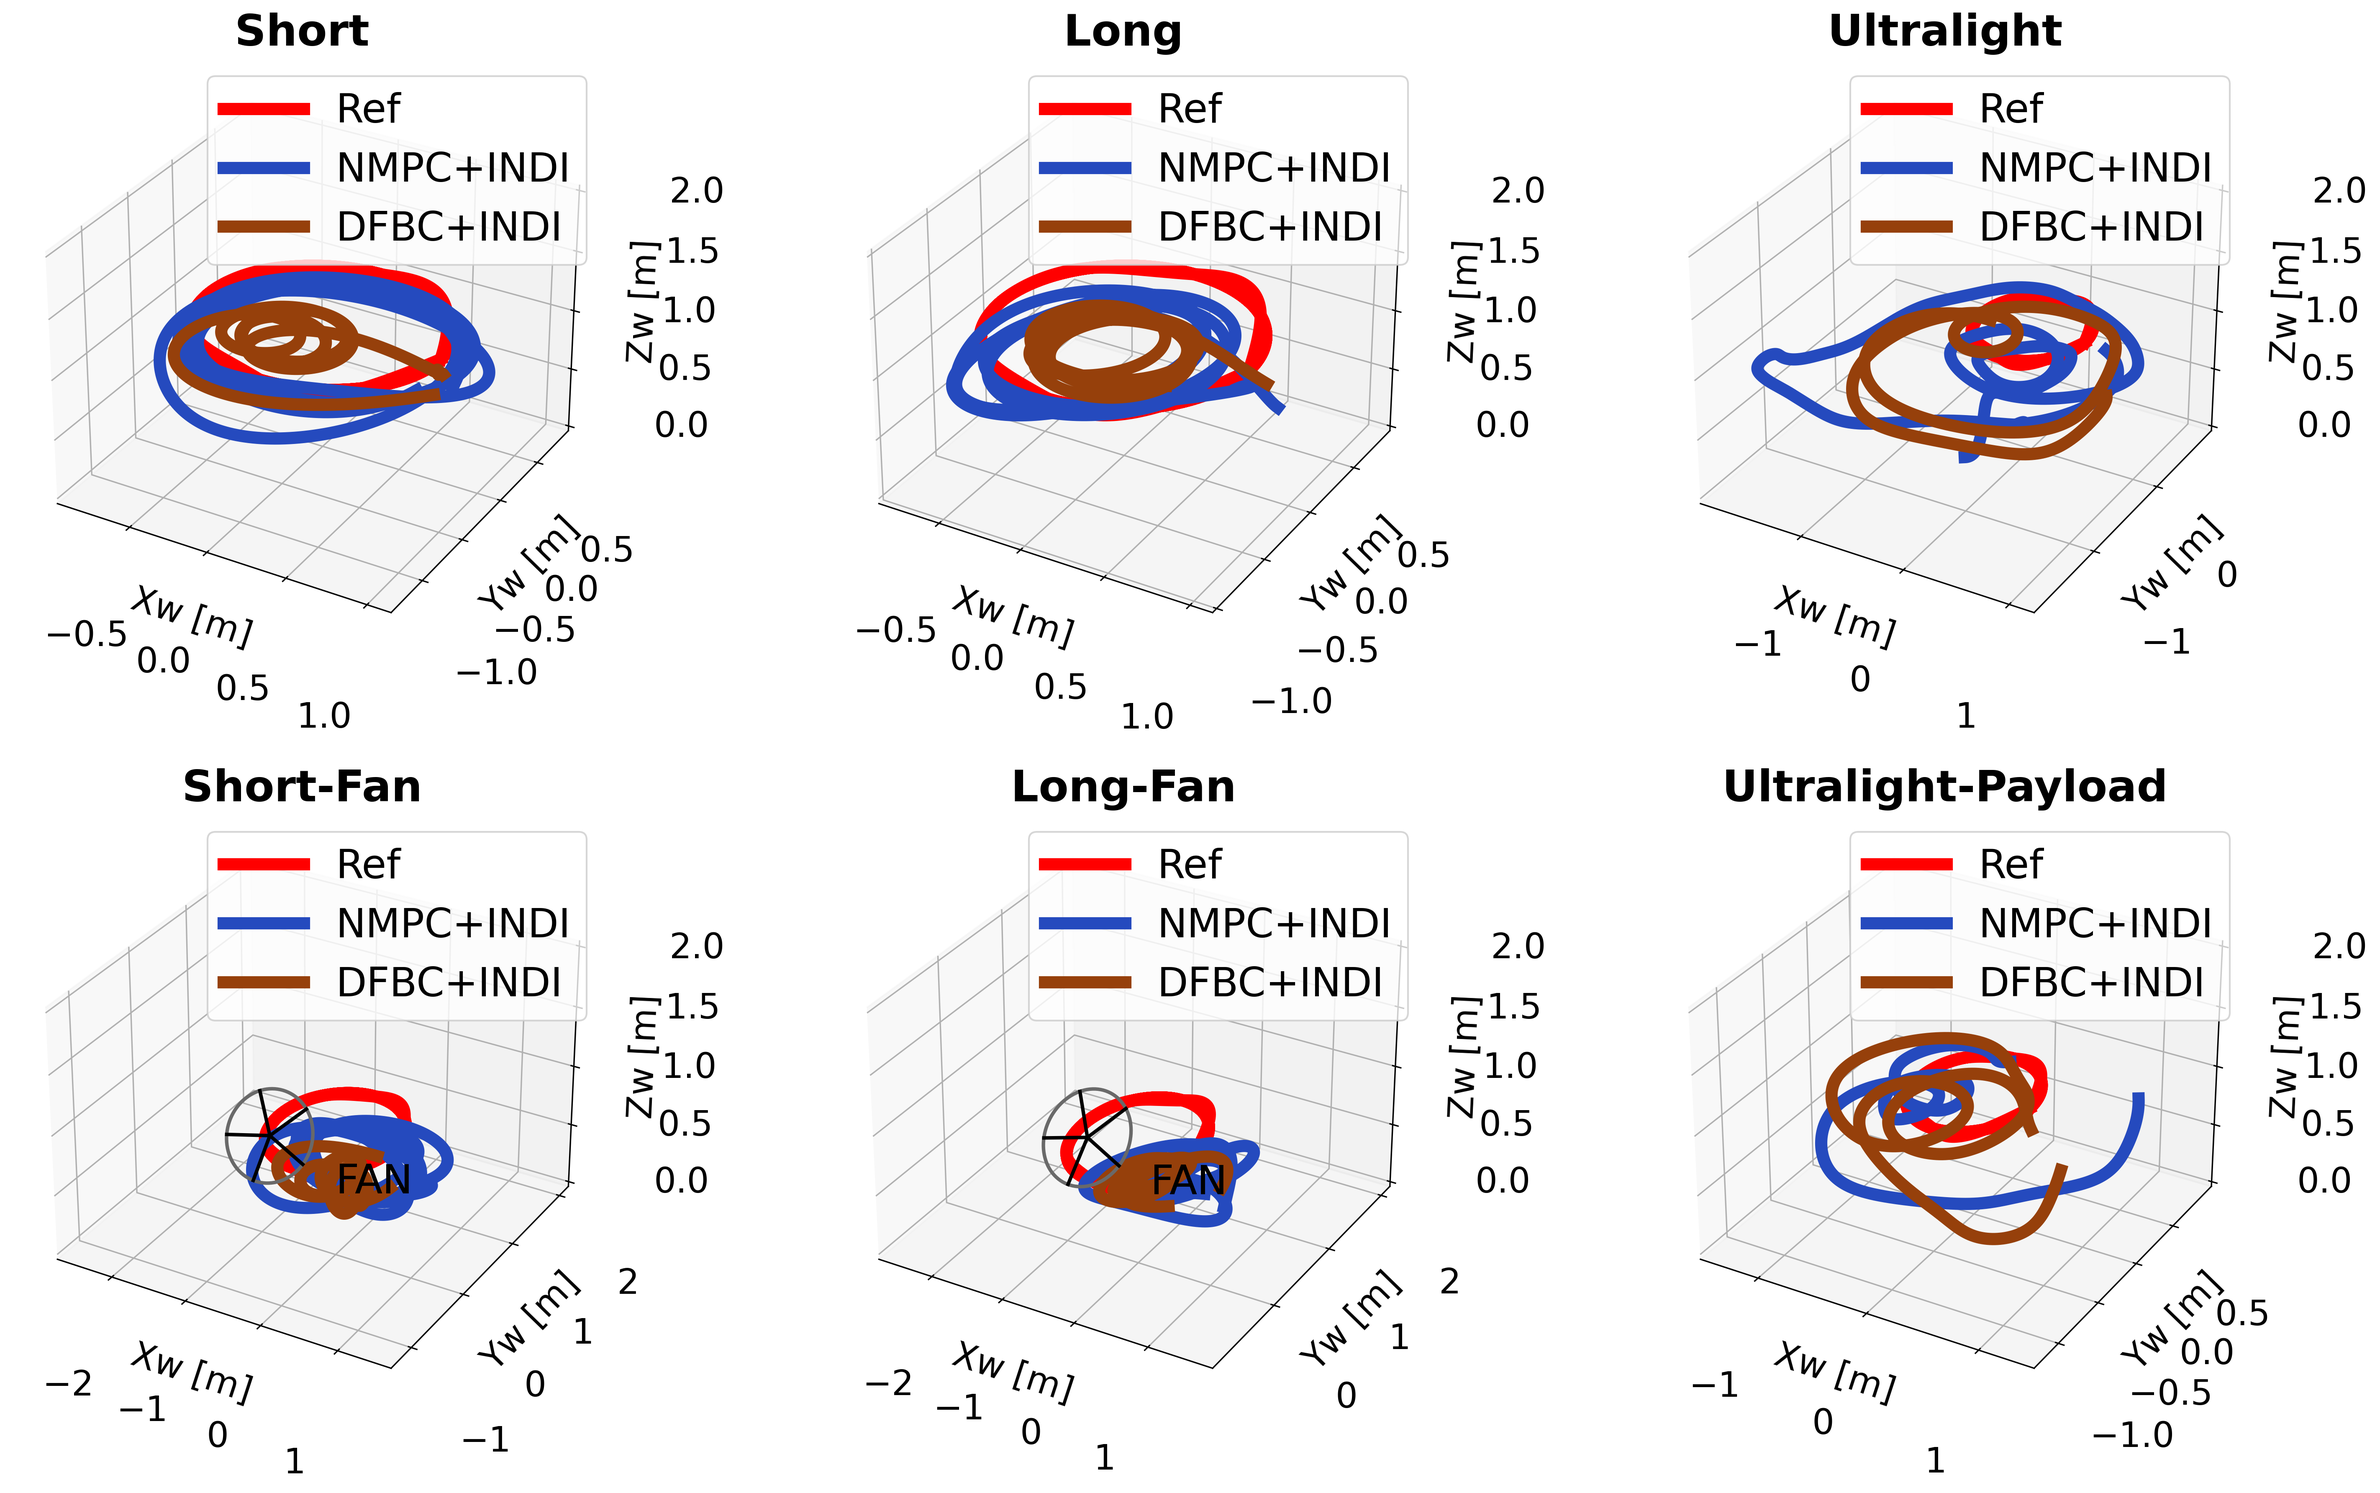
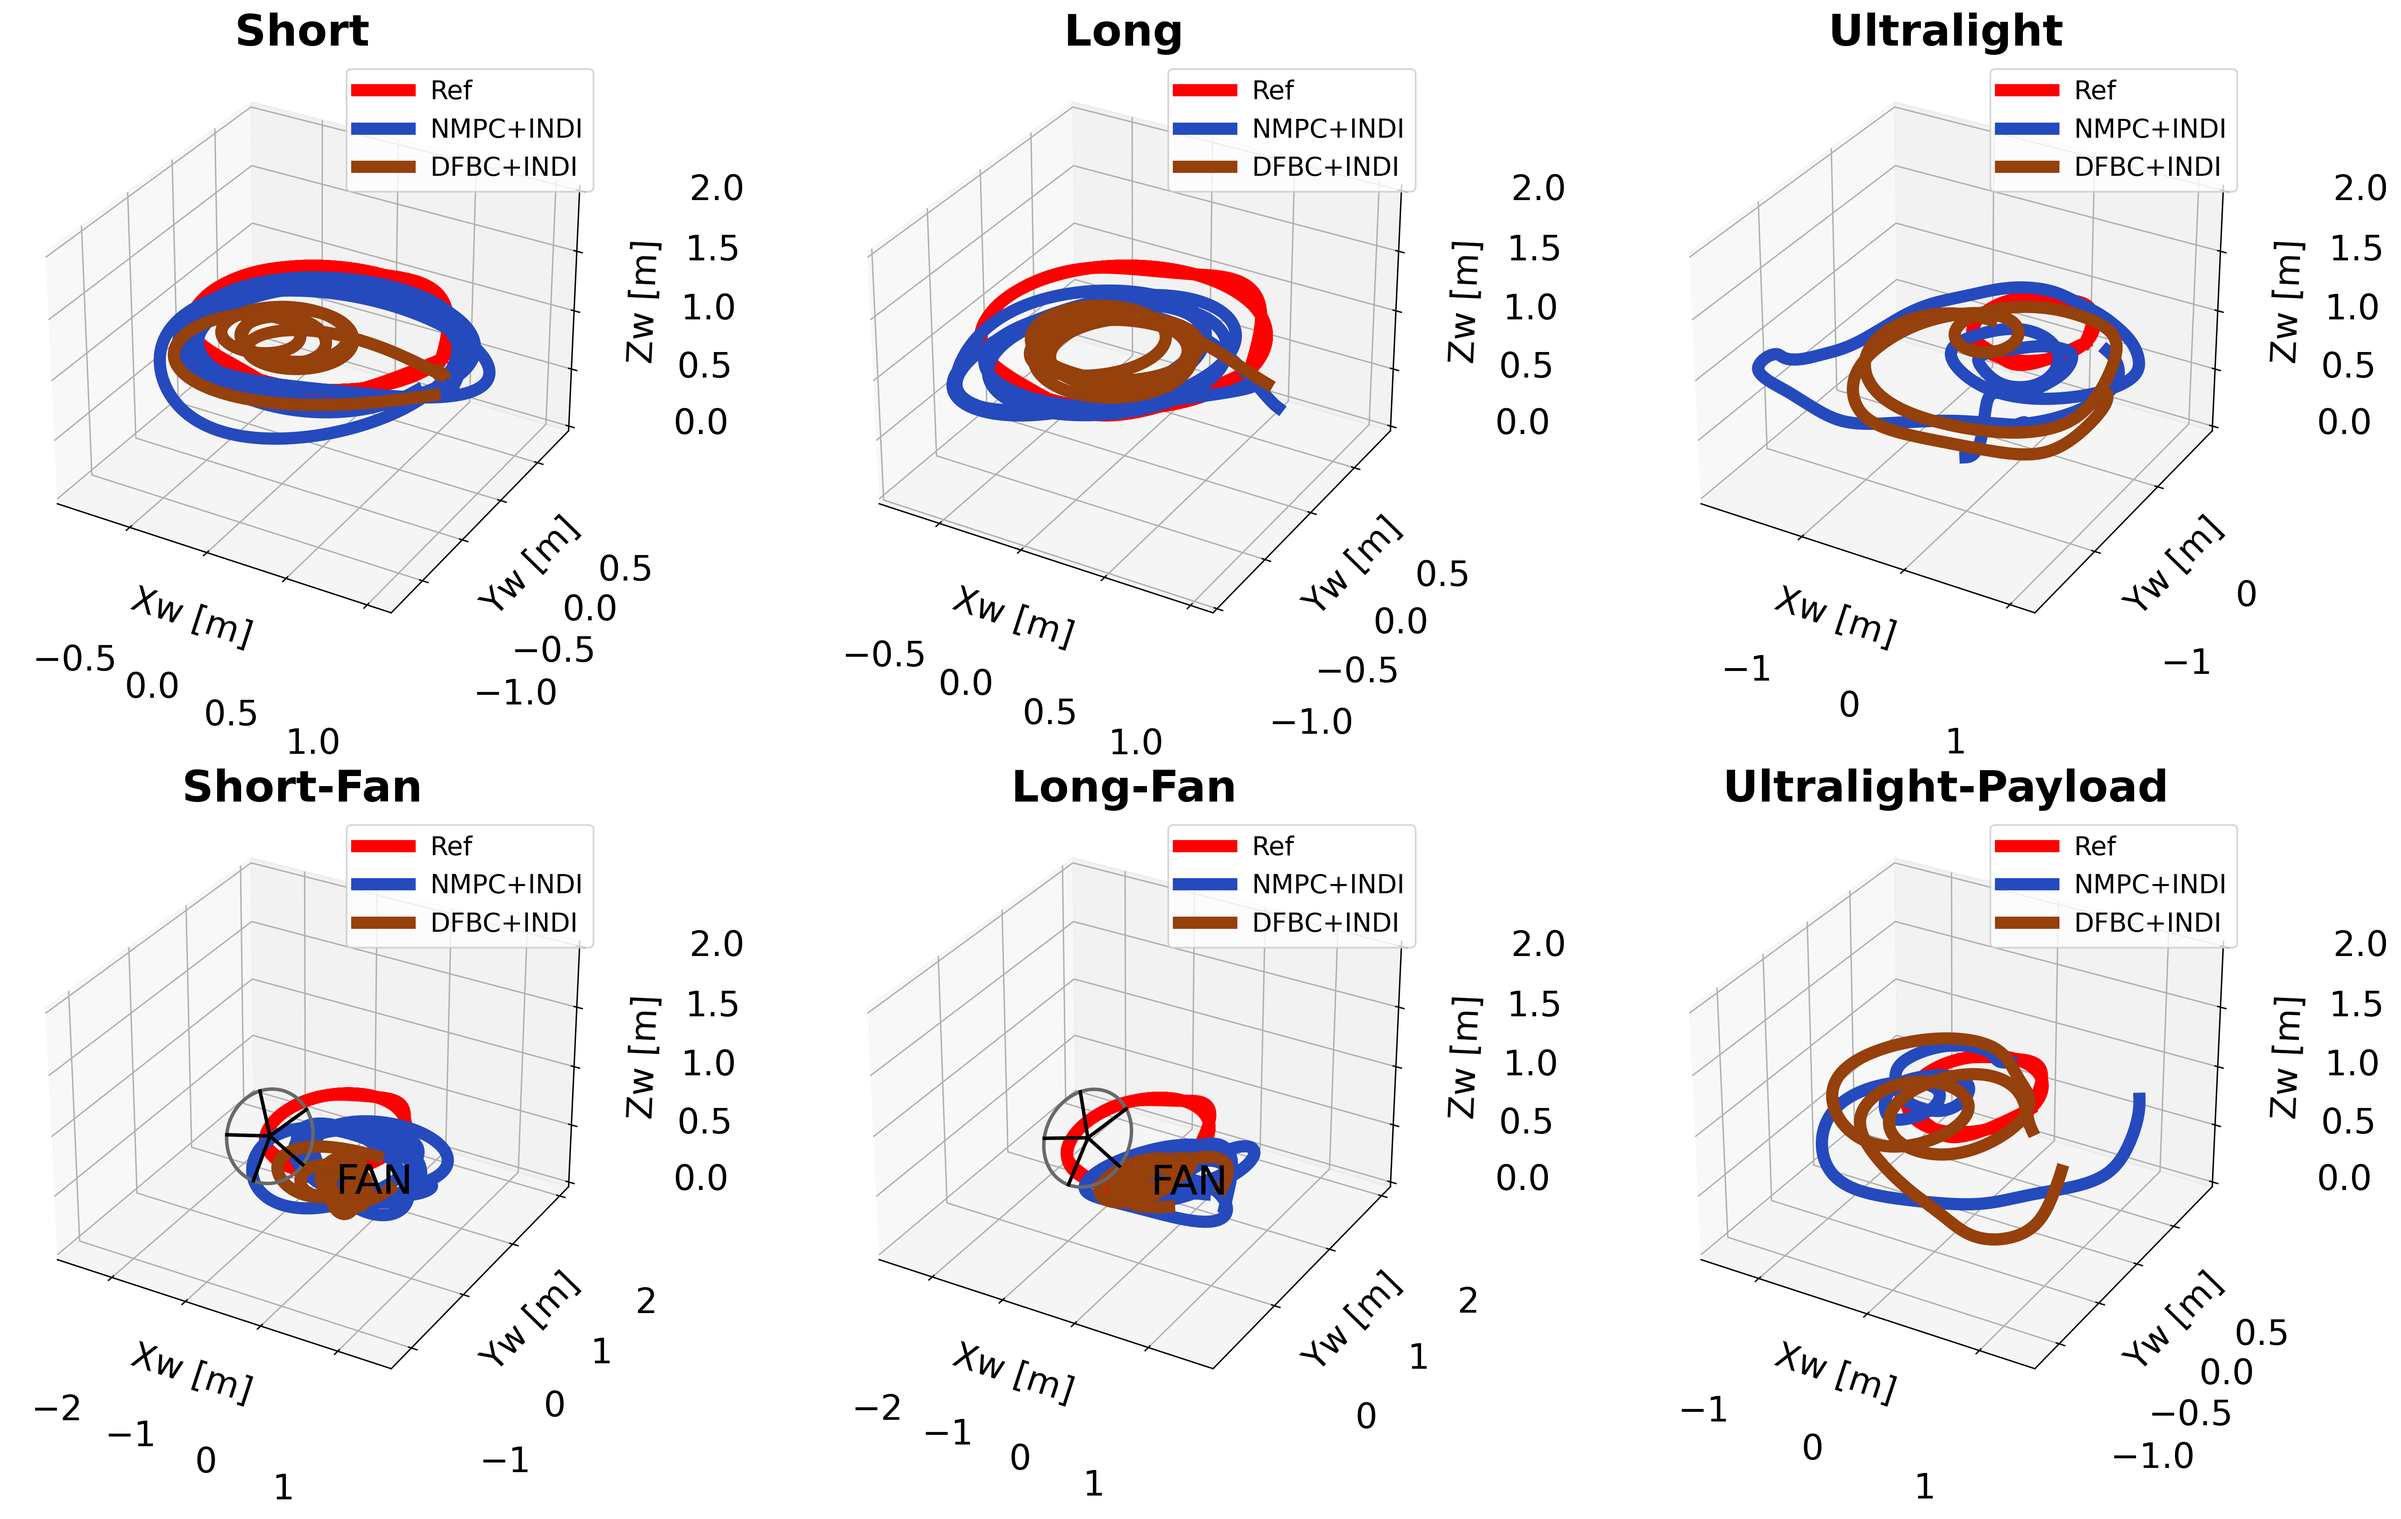
final plot adjustment

diff --git a/OCP_MPC/paper_plots/lem_ele__att_graphs_plotter.py b/OCP_MPC/paper_plots/lem_ele__att_graphs_plotter.py
@@ -34,7 +34,7 @@ elif type == 'ele':
 rows = 3
 cols = 2
 ## generate the plot
-fig = plt.figure(figsize=(40, 20))
+fig = plt.figure(figsize=(40, 30))
 
 gs = gridspec.GridSpec(rows, cols,
         width_ratios=[1.5, 1],
@@ -51,7 +51,7 @@ for i in range(rows):
         graphs[i][j] = ax
 
 colors = ['#254abe','#96400b','#254abe','#96400b']
-fig.subplots_adjust(hspace=0.248, wspace=0.078, 
+fig.subplots_adjust(hspace=0.4, wspace=0.078, 
                     left=0.03, right=0.98, 
                     top =0.9, bottom =0.075)
 #fig.suptitle(title, fontsize=40, fontweight='bold')
@@ -101,9 +101,9 @@ for i in range(rows):
                 yawrate = wing[a][m][9] 
                 mean = statistics.mean(yawrate)
                 mean = np.round(mean,1)
-                graphs[i][a].set_xlabel('Time(s)',fontsize=20) 
+                graphs[i][a].set_xlabel('Time(s)',fontsize=35) 
                 #graphs[i][a].plot(traj_time,yawrate,label=method_label+"(Mean:{})".format(mean),linewidth=7.0,color=colors[m],linestyle=style) #label=['INDI']
-                graphs[i][a].plot(traj_time,yawrate,label=method_label,linewidth=7.0,color=colors[m],linestyle=style) 
+                graphs[i][a].plot(traj_time,yawrate,label=method_label,linewidth=15.0,color=colors[m],linestyle=style) 
                  
         elif i == 0:
             for m in range((rows-1)*2): # 1.0 NMPC+INDI and DFBC+INDI
@@ -125,9 +125,9 @@ for i in range(rows):
                 att_raterate = wing[a][m][8] 
                 mean = statistics.mean(att_raterate)
                 mean = np.round(mean,2)
-                graphs[i][a].set_xlabel('Time(s)',fontsize=20) 
+                graphs[i][a].set_xlabel('Time(s)',fontsize=35) 
                 #graphs[i][a].plot(traj_time,att_track,label=method_label+"(Mean:{}, RMS:{})".format(mean, rms),linewidth=7.0,color=colors[m],linestyle=style) #label=['INDI']
-                graphs[i][a].plot(traj_time,att_raterate,label=method_label,linewidth=7.0,color=colors[m],linestyle=style) 
+                graphs[i][a].plot(traj_time,att_raterate,label=method_label,linewidth=15.0,color=colors[m],linestyle=style) 
                  
         else:
             for m in range((rows-1)*2): # 1.0 NMPC+INDI and DFBC+INDI
@@ -149,9 +149,9 @@ for i in range(rows):
                 motor_cmd = ((wing[a][m][17])/65500)*100 
                 mean = statistics.mean(motor_cmd)
                 mean = np.round(mean,2)
-                graphs[i][a].set_xlabel('Time(s)',fontsize=20) 
+                graphs[i][a].set_xlabel('Time(s)',fontsize=35) 
                 #graphs[i][a].plot(traj_time,att_track,label=method_label+"(Mean:{}, RMS:{})".format(mean, rms),linewidth=7.0,color=colors[m],linestyle=style) #label=['INDI']
-                graphs[i][a].plot(traj_time,motor_cmd,label=method_label,linewidth=7.0,color=colors[m],linestyle=style) 
+                graphs[i][a].plot(traj_time,motor_cmd,label=method_label,linewidth=15.0,color=colors[m],linestyle=style) 
                  
 
         # set limits
@@ -165,12 +165,12 @@ for i in range(rows):
                 graphs[i][a].set_ylim(0,90)
 
         # legend        
-        graphs[i][a].legend(loc='upper right', fontsize=20)
+        graphs[i][a].legend(loc='upper right', fontsize=35)
         # axes
-        graphs[i][a].tick_params(axis='both', labelsize=20)
+        graphs[i][a].tick_params(axis='both', labelsize=35)
         # add title
-        graphs[i][a].set_title(traj_label+att_label, fontsize=25, fontweight='bold')
-        graphs[i][a].grid(linewidth=4.0)
+        graphs[i][a].set_title(traj_label+att_label, fontsize=45, fontweight='bold')
+        graphs[i][a].grid(linewidth=8.0)
 
 
 

diff --git a/OCP_MPC/paper_plots/circle_reduced_3D_graphs_plotter.py b/OCP_MPC/paper_plots/circle_reduced_3D_graphs_plotter.py
@@ -86,13 +86,13 @@ for i in range(rows):
         graphs[i][a].set_ylabel('Yw [m]', fontsize=20)
         graphs[i][a].set_zlabel('Zw [m]', fontsize=20)
         # legend        
-        graphs[i][a].legend(loc='upper right', fontsize=23) # font used to be 23
+        graphs[i][a].legend(loc='upper right', fontsize=15) # font used to be 23
         # add title
         graphs[i][a].set_title(traj_label, fontsize=25, fontweight='bold') # font used to be 35
         graphs[i][a].tick_params(axis='both', labelsize=20)
-        graphs[i][a].tick_params(axis='x', pad=30)
-        graphs[i][a].tick_params(axis='y', pad=30)
-        graphs[i][a].tick_params(axis='z', pad=33)   
+        graphs[i][a].tick_params(axis='x', pad=40)
+        graphs[i][a].tick_params(axis='y', pad=40)
+        graphs[i][a].tick_params(axis='z', pad=40)   
 
         if i == 1 and a < 2: # only for the second row of graphs for short and long
             # fan parameters

diff --git a/OCP_MPC/paper_plots/lem_ele_reduced_3D_graphs_plotter.py b/OCP_MPC/paper_plots/lem_ele_reduced_3D_graphs_plotter.py
@@ -92,9 +92,9 @@ for i in range(rows):
         # add title
         graphs[i][a].set_title(traj_label, fontsize=25, fontweight='bold') # font used to be 35
         graphs[i][a].tick_params(axis='both', labelsize=20)
-        graphs[i][a].tick_params(axis='x', pad=30)
-        graphs[i][a].tick_params(axis='y', pad=30)
-        graphs[i][a].tick_params(axis='z', pad=33)   
+        graphs[i][a].tick_params(axis='x', pad=40)
+        graphs[i][a].tick_params(axis='y', pad=40)
+        graphs[i][a].tick_params(axis='z', pad=40)   
 
         
 #plt.savefig(title+'.pdf')   
